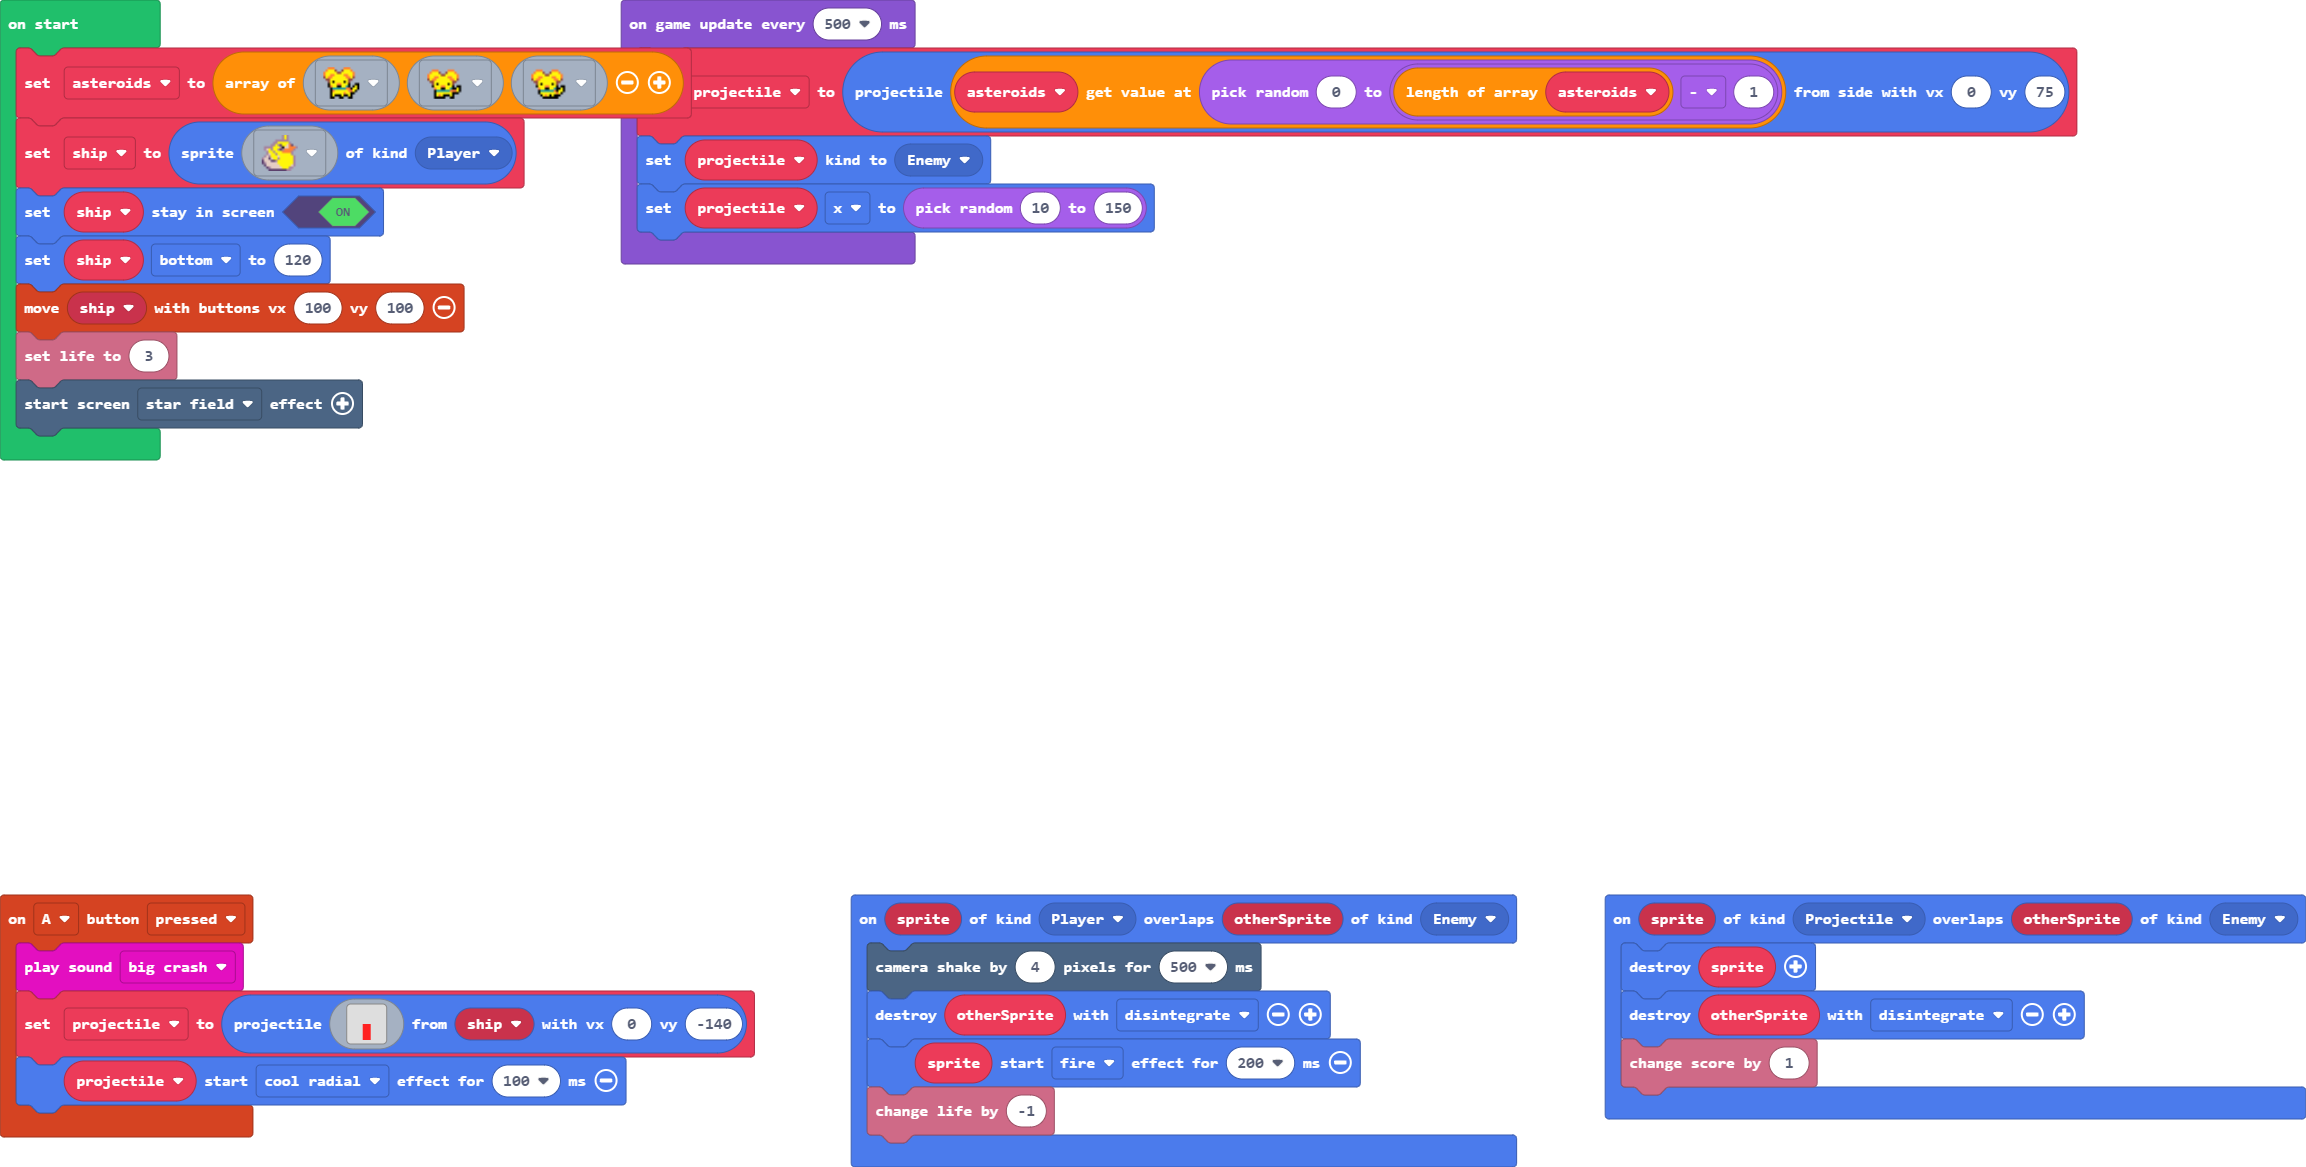
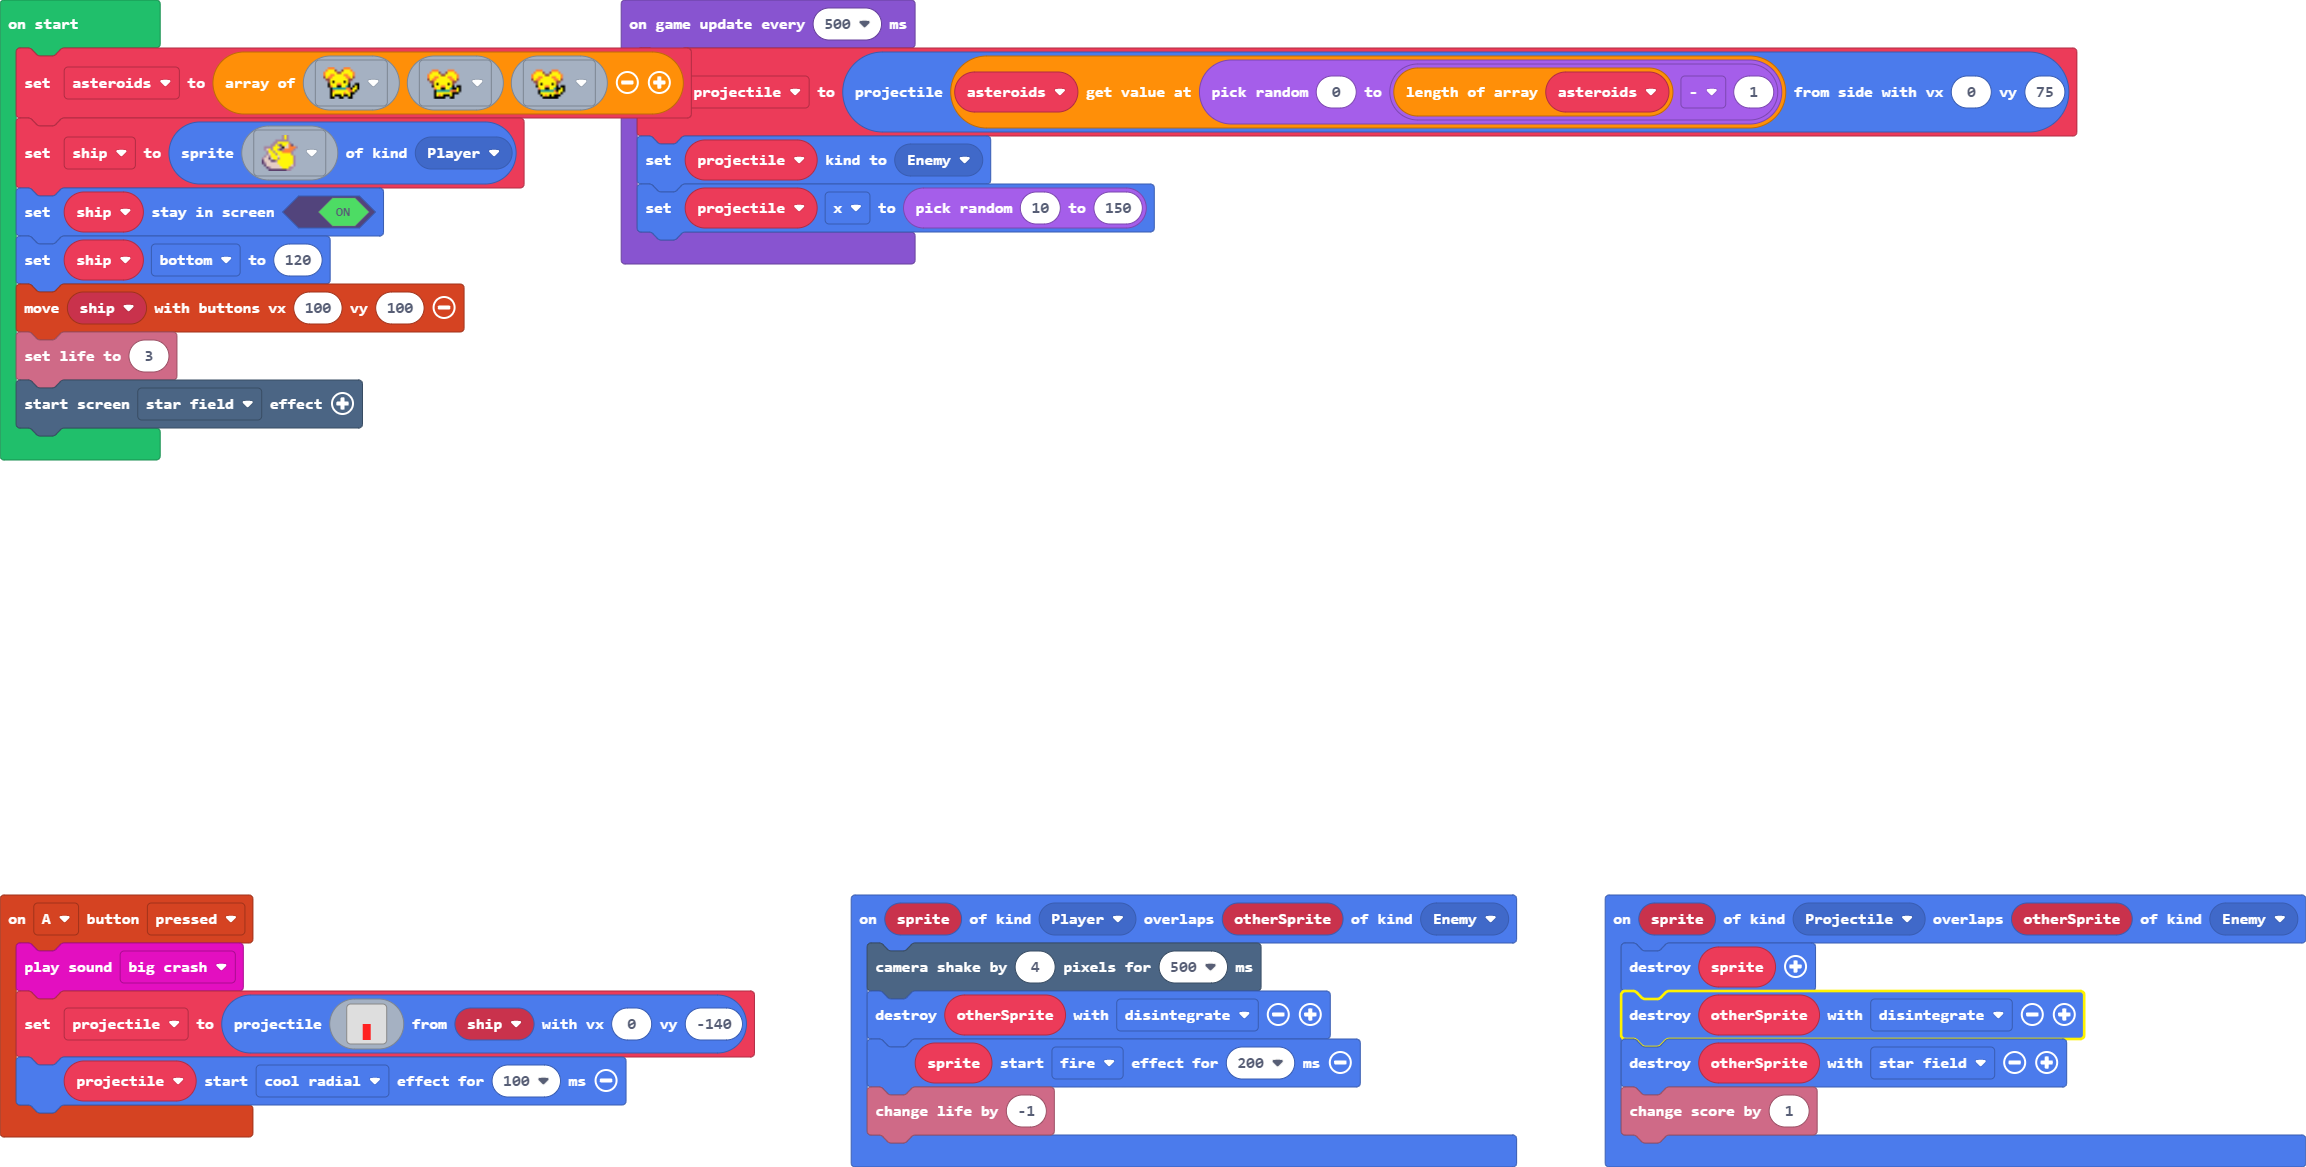
Update main.blocks, main.ts

Changed region(s): [[0.6869, 0.8329, 1.0, 1.0]]

diff --git a/main.ts b/main.ts
@@ -15,6 +15,7 @@ controller.A.onEvent(ControllerButtonEvent.Pressed, function () {
 sprites.onOverlap(SpriteKind.Projectile, SpriteKind.Enemy, function (sprite, otherSprite) {
     sprite.destroy()
     otherSprite.destroy(effects.disintegrate)
+    otherSprite.destroy(effects.starField)
     info.changeScoreBy(1)
 })
 sprites.onOverlap(SpriteKind.Player, SpriteKind.Enemy, function (sprite, otherSprite) {
